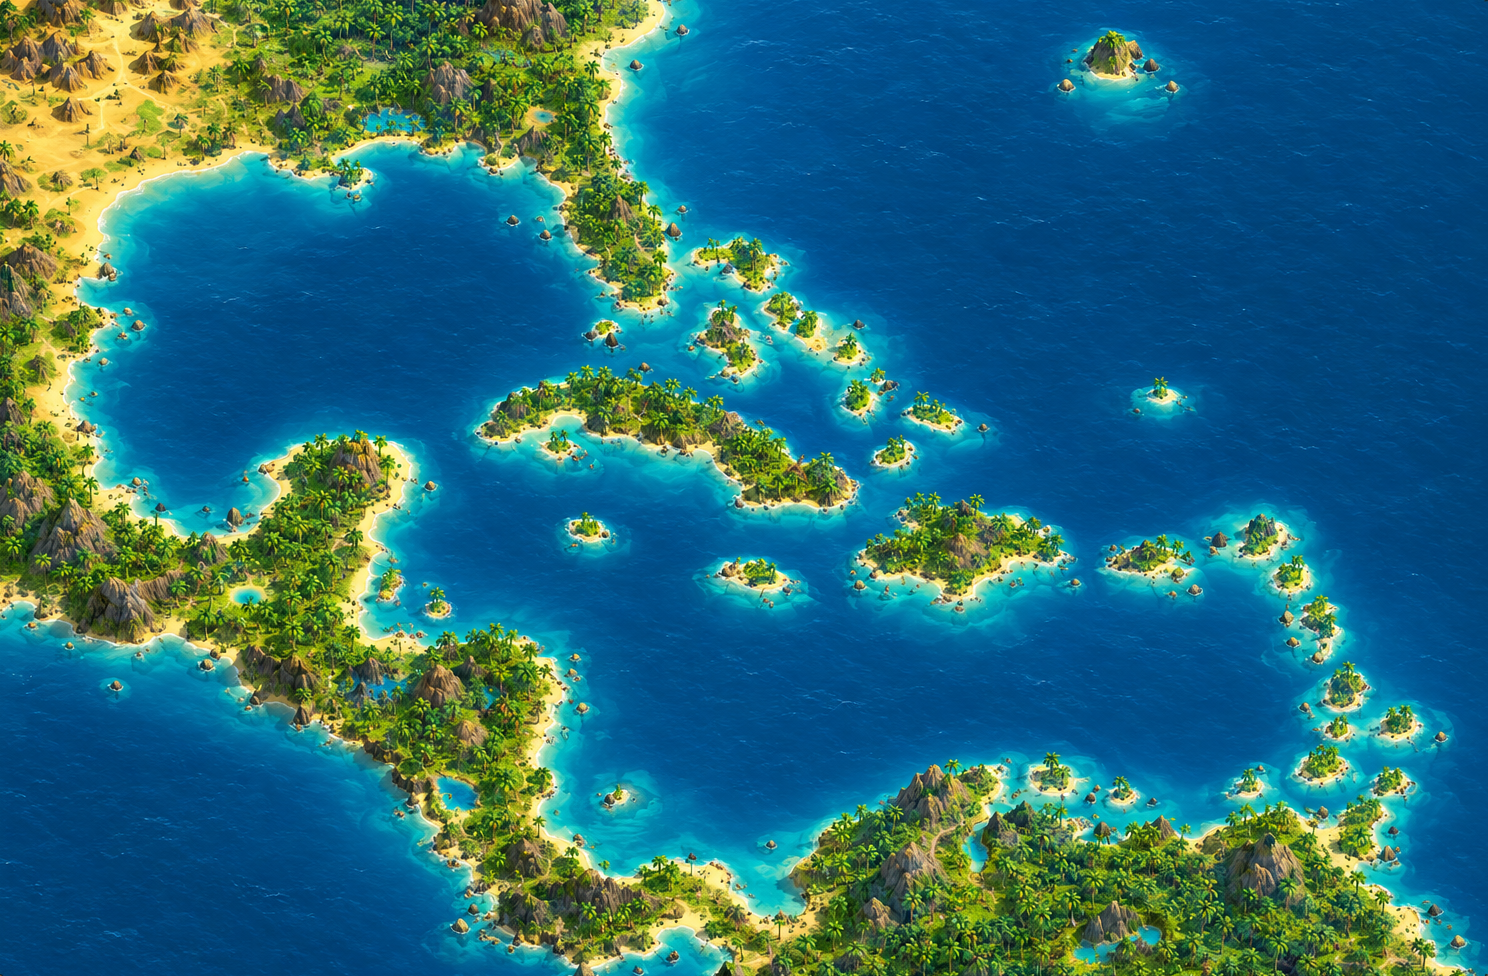
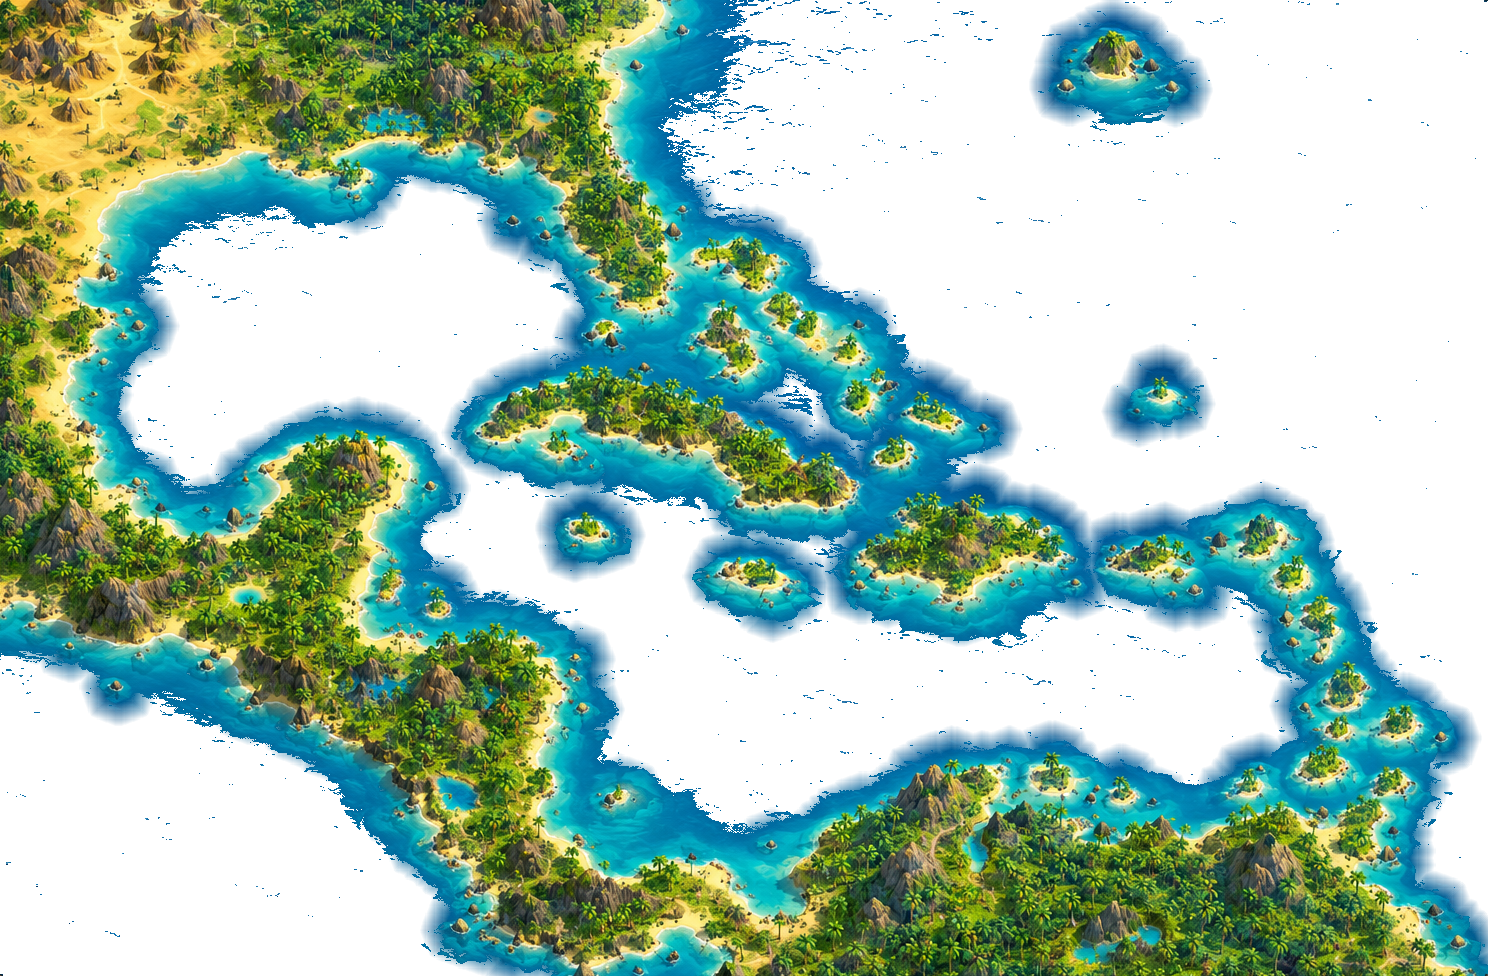
L'illustration rend l'eau du large a la nappe animee
La nappe se dessine PAR-DESSUS l'illustration : elle agitait une mer deja
peinte, dont la texture au pinceau se battait avec le mouvement. Le large est
donc retire de l'image et remplace par un aplat de la meme couleur, mesuree
sur l'illustration. A l'oeil rien ne change ; l'eau du large appartient
desormais entierement au shader.

Le rivage et les recifs restent peints, parce que c'est la que la couleur dit
quelque chose que le shader ne sait pas dire. La mesure montre qu'il n'y a
AUCUNE frontiere entre eau peu profonde et eau profonde -- la couleur descend
en degrade continu de (85,156,139) a une case de la cote jusqu'a (0,76,132) a
quarante. Un seuil net y dessinerait un anneau autour de chaque ile, d'ou un
fondu ; et tout pixel qui s'ecarte du bleu du large reste opaque, pour qu'un
recif isole survive quelle que soit sa profondeur.

Resultat : 50,9 % opaque, 42,0 % rendu a la nappe, 7,1 % en fondu.

diff --git a/outils/carte_eau.py b/outils/carte_eau.py
@@ -1,0 +1,153 @@
+# -*- coding: utf-8 -*-
+"""Retire l'eau du LARGE de l'illustration, garde le rivage et les recifs.
+
+    py outils/carte_eau.py
+
+Pourquoi. La nappe animee se dessine PAR-DESSUS l'illustration (z -9 contre
+-10) : elle agite une mer deja peinte. Le large peint n'apporte alors rien --
+c'est un aplat -- mais sa texture au pinceau se bat avec le mouvement du
+shader. On le retire donc, et on le remplace par un fond uni de la MEME
+couleur : rien ne change a l'oeil la ou le shader est transparent, mais l'eau
+du large appartient desormais entierement a la nappe.
+
+Ce qu'on garde. Le turquoise du rivage et les recifs : c'est la que la couleur
+peinte dit quelque chose que le shader ne sait pas dire. La mesure montre qu'il
+n'y a AUCUNE frontiere entre eau peu profonde et eau profonde -- la couleur
+descend en degrade continu de (85,156,139) a une case de la cote jusqu'a
+(0,75,131) a quarante. Un seuil net y dessinerait un anneau autour de chaque
+ile. On fait donc un FONDU, et on garde en plus tout pixel dont la couleur
+s'ecarte du large : un recif au milieu de nulle part survit ainsi, quelle que
+soit sa profondeur.
+
+Entrees  : carte_cuite.png, sim/carte_monde.lua
+Sorties  : carte_cuite.png (RGBA), carte_cuite.json (champ "mer_fond")
+
+L'original est dans git : `git checkout -- carte_cuite.png` le rend.
+"""
+import importlib.util
+import io
+import json
+import os
+import re
+
+RACINE = os.path.dirname(os.path.dirname(os.path.abspath(__file__)))
+
+_spec = importlib.util.spec_from_file_location(
+    "carte_illustree", os.path.join(RACINE, "outils", "carte_illustree.py"))
+ci = importlib.util.module_from_spec(_spec)
+_spec.loader.exec_module(ci)
+
+# Le fondu, en cases du masque depuis la cote.
+OPAQUE_JUSQUA   = 10      # en deca, l'illustration est gardee telle quelle
+TRANSPARENT_DES = 32      # au dela, elle est entierement rendue a la nappe
+
+# De combien la couleur doit s'ecarter du large pour qu'on parle d'un recif.
+# 28 sur 255 : au dela du bruit du pinceau, en deca du turquoise franc.
+ECART_RECIF = 28
+
+NL = chr(10)
+
+
+def lire_masque():
+    """Le masque terre/mer, decode depuis le RLE de sim/carte_monde.lua."""
+    src = io.open(os.path.join(RACINE, "sim", "carte_monde.lua"),
+                  encoding="utf-8").read()
+    mw, mh = map(int, re.search(
+        r"Carte\.largeur,\s*Carte\.hauteur\s*=\s*(\d+),\s*(\d+)", src).groups())
+    bloc = src.split("Carte.plages = {", 1)[1].split(NL + "}", 1)[0]
+    terre = bytearray(mw * mh)
+    for z, ligne in enumerate(re.findall(r"\{([0-9,\s]+)\}", bloc)):
+        x, valeur = 0, 0
+        for n in (int(t) for t in ligne.split(",") if t.strip()):
+            if valeur:
+                for k in range(x, min(x + n, mw)):
+                    terre[z * mw + k] = 1
+            x += n
+            valeur = 1 - valeur
+    return mw, mh, terre
+
+
+def couleur_du_large(ipx, iw, ih, mw, mh, terre, prof):
+    """La couleur de l'eau a plus de TRANSPARENT_DES cases de toute cote."""
+    r = v = b = n = 0
+    for cz in range(mh):
+        iy = min(ih - 1, (cz * 2 + 1) * ih // (mh * 2))
+        for cx in range(mw):
+            i = cz * mw + cx
+            if terre[i] or prof[i] // 5 < TRANSPARENT_DES:
+                continue
+            s = (iy * iw + min(iw - 1, (cx * 2 + 1) * iw // (mw * 2))) * 4
+            r += ipx[s]; v += ipx[s + 1]; b += ipx[s + 2]; n += 1
+    if n == 0:
+        raise SystemExit("aucune eau du large trouvee : seuils a revoir")
+    return (r // n, v // n, b // n), n
+
+
+def main():
+    mw, mh, terre = lire_masque()
+    iw, ih, ipx = ci.lire_png(os.path.join(RACINE, "carte_cuite.png"))
+    print("illustration %d x %d, masque %d x %d" % (iw, ih, mw, mh))
+
+    mer = [not terre[i] for i in range(mw * mh)]
+    prof = ci.chanfrein(mer, mw, mh)          # le chanfrein compte 5 par case
+    fond, n_large = couleur_du_large(ipx, iw, ih, mw, mh, terre, prof)
+    print("couleur du large : %s  (sur %d cases)" % (fond, n_large))
+
+    # Alpha par CASE du masque, puis lu par pixel : le masque est la seule
+    # grille ou la profondeur ait un sens.
+    alpha = bytearray(mw * mh)
+    for i in range(mw * mh):
+        if terre[i]:
+            alpha[i] = 255
+            continue
+        d = prof[i] / 5.0
+        if d <= OPAQUE_JUSQUA:
+            alpha[i] = 255
+        elif d >= TRANSPARENT_DES:
+            alpha[i] = 0
+        else:
+            t = (d - OPAQUE_JUSQUA) / float(TRANSPARENT_DES - OPAQUE_JUSQUA)
+            alpha[i] = int(round(255.0 * (1.0 - t)))
+
+    sortie = bytearray(iw * ih * 4)
+    recifs = 0
+    for y in range(ih):
+        cz = min(mh - 1, y * mh // ih)
+        for x in range(iw):
+            s = (y * iw + x) * 4
+            d = (y * iw + x) * 4
+            cx = min(mw - 1, x * mw // iw)
+            a = alpha[cz * mw + cx]
+            r, v, b = ipx[s], ipx[s + 1], ipx[s + 2]
+            if a < 255:
+                # Un recif garde sa couleur meme au large : on le reconnait a
+                # son ecart au bleu du large, pas a sa profondeur.
+                ecart = max(abs(r - fond[0]), abs(v - fond[1]), abs(b - fond[2]))
+                if ecart > ECART_RECIF:
+                    a = 255
+                    recifs += 1
+            sortie[d] = r; sortie[d + 1] = v; sortie[d + 2] = b; sortie[d + 3] = a
+    print("pixels rendus opaques comme recifs : %d" % recifs)
+
+    opaques = sum(1 for i in range(iw * ih) if sortie[i * 4 + 3] == 255)
+    print("opaque %.1f %%, transparent %.1f %%, en fondu %.1f %%" % (
+        100.0 * opaques / (iw * ih),
+        100.0 * sum(1 for i in range(iw * ih) if sortie[i * 4 + 3] == 0) / (iw * ih),
+        100.0 * sum(1 for i in range(iw * ih)
+                    if 0 < sortie[i * 4 + 3] < 255) / (iw * ih)))
+
+    ci.ecrire_png(os.path.join(RACINE, "carte_cuite.png"), iw, ih, sortie, 4)
+    print("carte_cuite.png reecrit en RGBA")
+
+    # Le fond de mer va dans la fiche, pas dans le code : le moteur ne doit
+    # recopier aucune constante de cadrage ni de couleur.
+    chemin = os.path.join(RACINE, "carte_cuite.json")
+    fiche = json.load(io.open(chemin, encoding="utf-8"))
+    fiche["mer_fond"] = [fond[0] / 255.0, fond[1] / 255.0, fond[2] / 255.0]
+    io.open(chemin, "w", encoding="utf-8", newline=NL).write(
+        json.dumps(fiche, indent="\t", ensure_ascii=False) + NL)
+    print("carte_cuite.json : mer_fond = %s" % (fiche["mer_fond"],))
+
+
+if __name__ == "__main__":
+    main()
